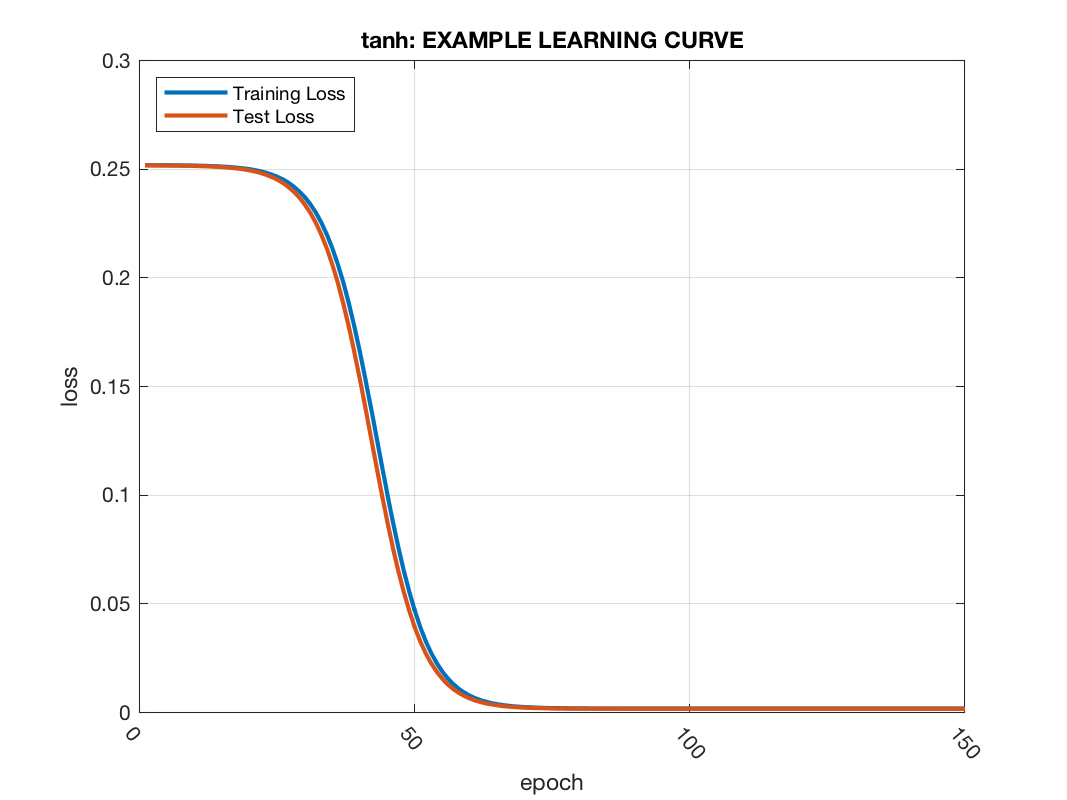
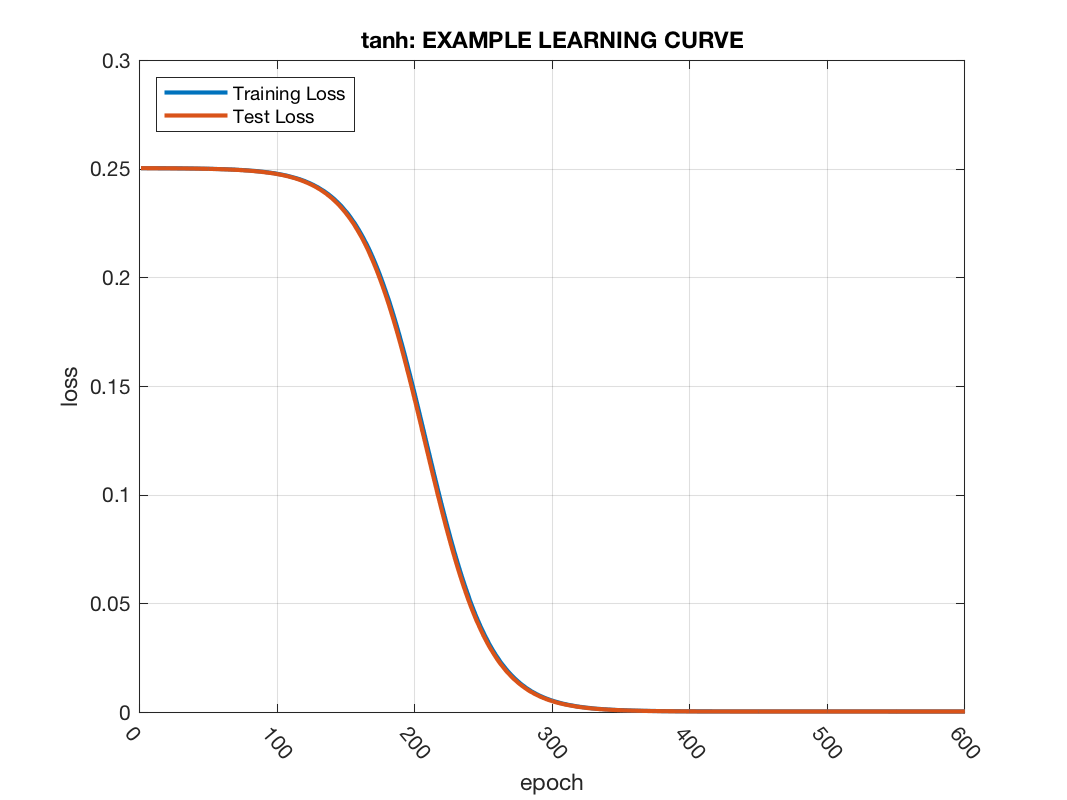
sup

diff --git a/example.m b/example.m
@@ -4,19 +4,19 @@ clear all; clc; addpath('./nn/'); addpath('./util/');
 %%%%%%%%%%%%%%%%%%%%%%%% SETTINGS %%%%%%%%%%%%%%%%%%%%%%%%%%%%%%
 %%%%%%%%%%%%%%%%%%%%%%%%%%%%%%%%%%%%%%%%%%%%%%%%%%%%%%%%%%%%%%%%
 activation_type = 'tanh';
-learning_rate = 0.01;
-num_epochs =150;
-print_frequency = 1;
+learning_rate = 0.002;
+num_epochs = 600;
+print_frequency = 50;
 %%%%%%%%%%%%%%%%%%%%%%%%%%%%%%%%%%%%%%%%%%%%%%%%%%%%%%%%%%%%%%%%
 
 
 % create a crazy polynomial to learn
 
-% 1000 training examples, 20 features
-X_train = rand(1000,25);
+% 1000 training examples, 100 features
+X_train = rand(1000,100);
 
-% 5000 test examples, 20 features
-X_test = rand(5000,25);
+% 5000 test examples
+X_test = rand(5000,100);
 
 constants = rand(1, size(X_train,2));
 polynomial = randi([1 10],1, size(X_train,2));
